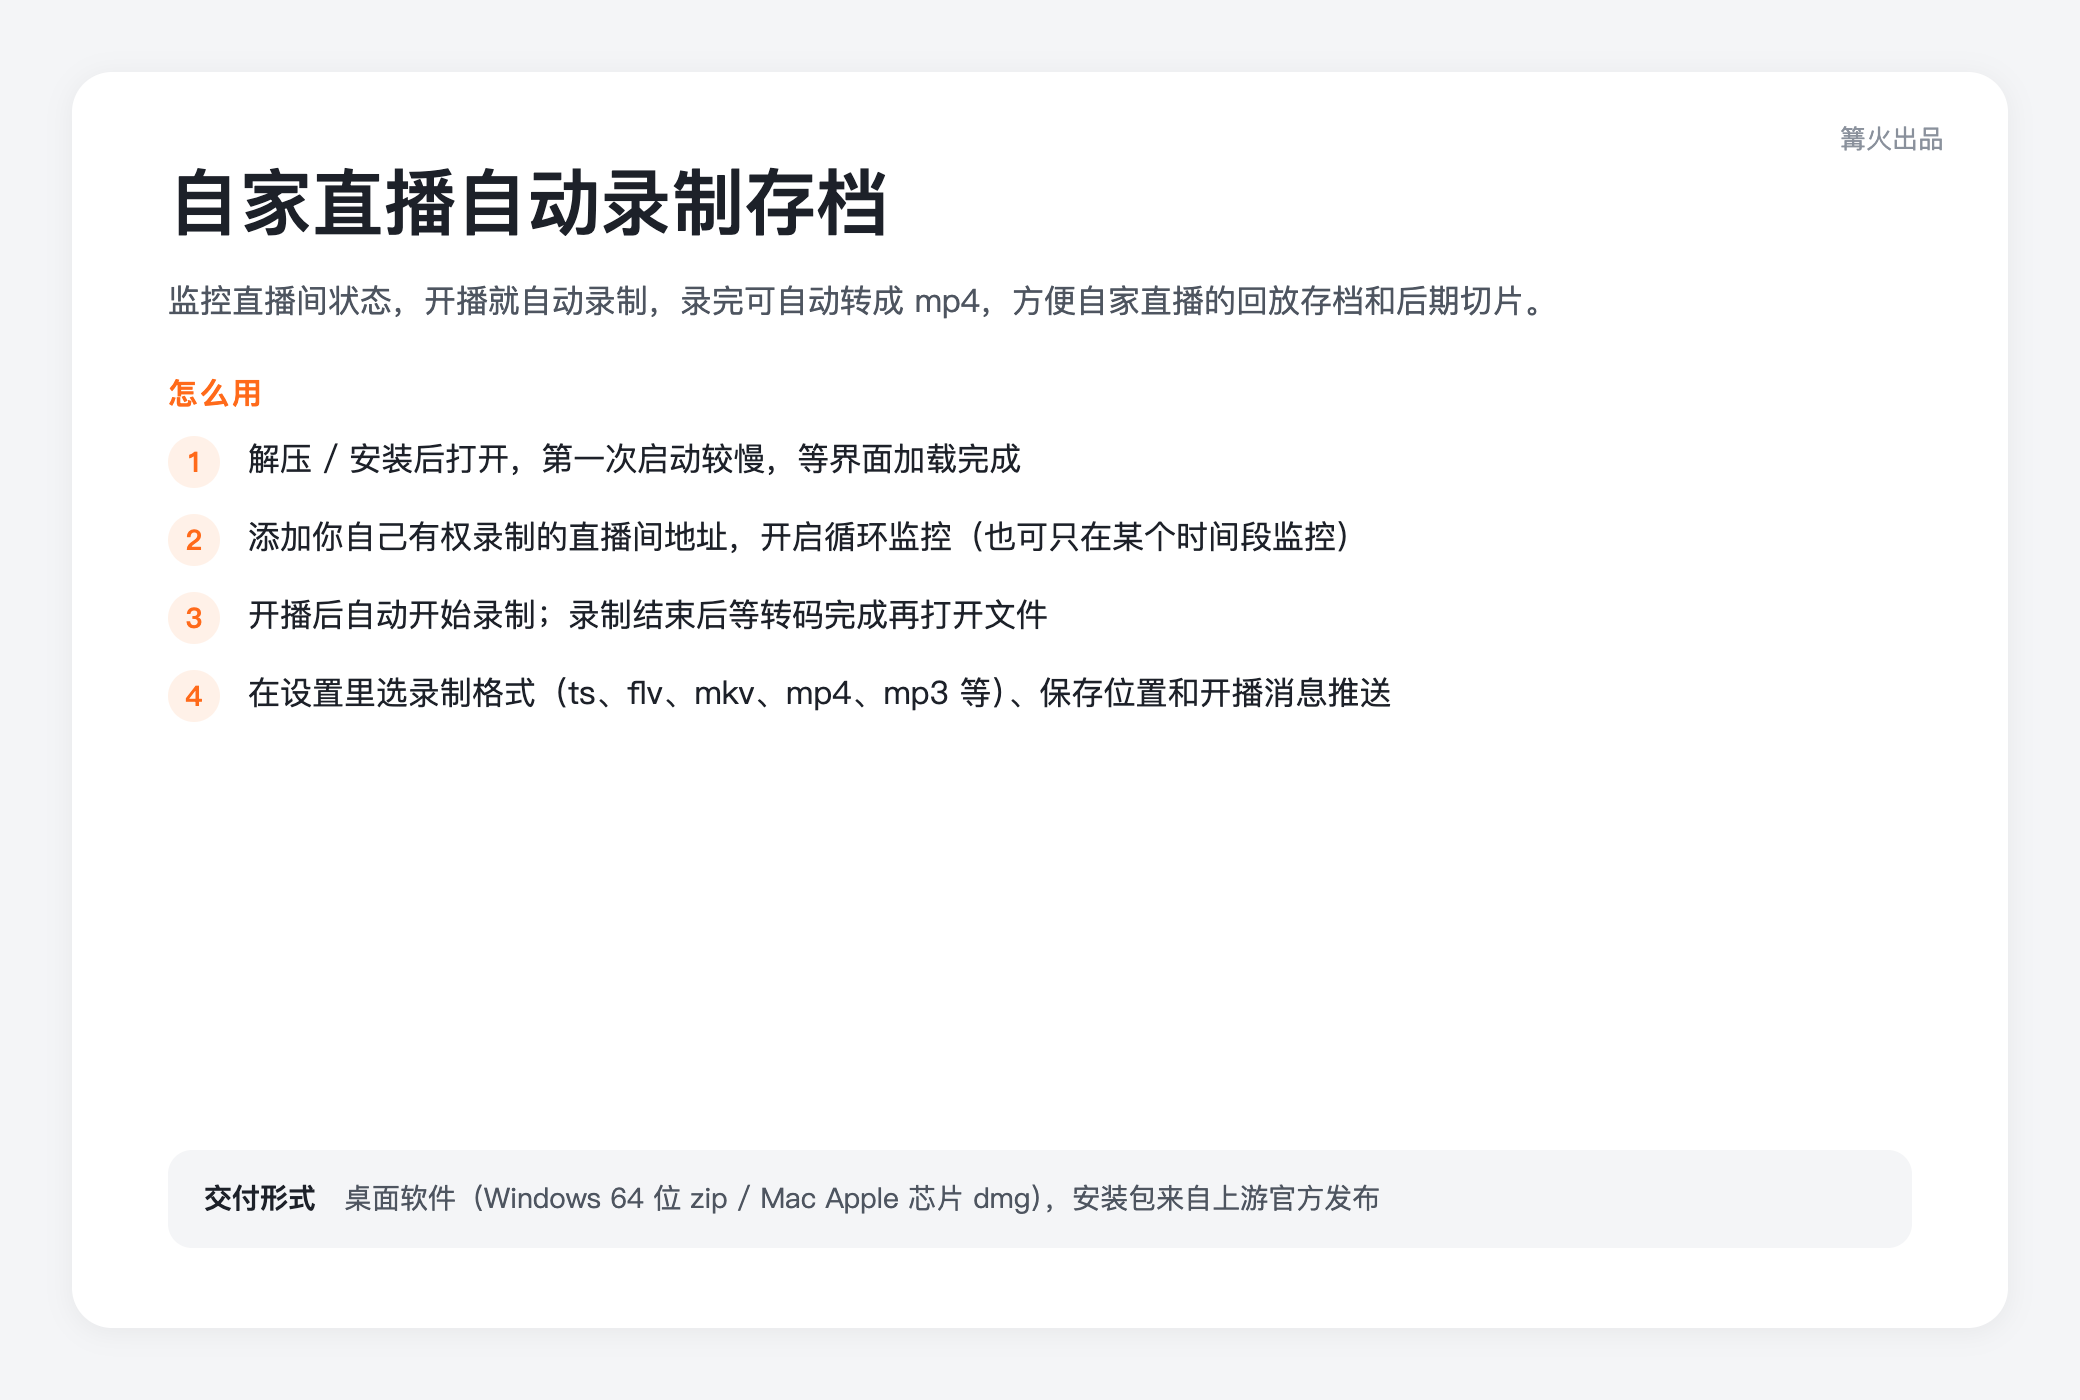
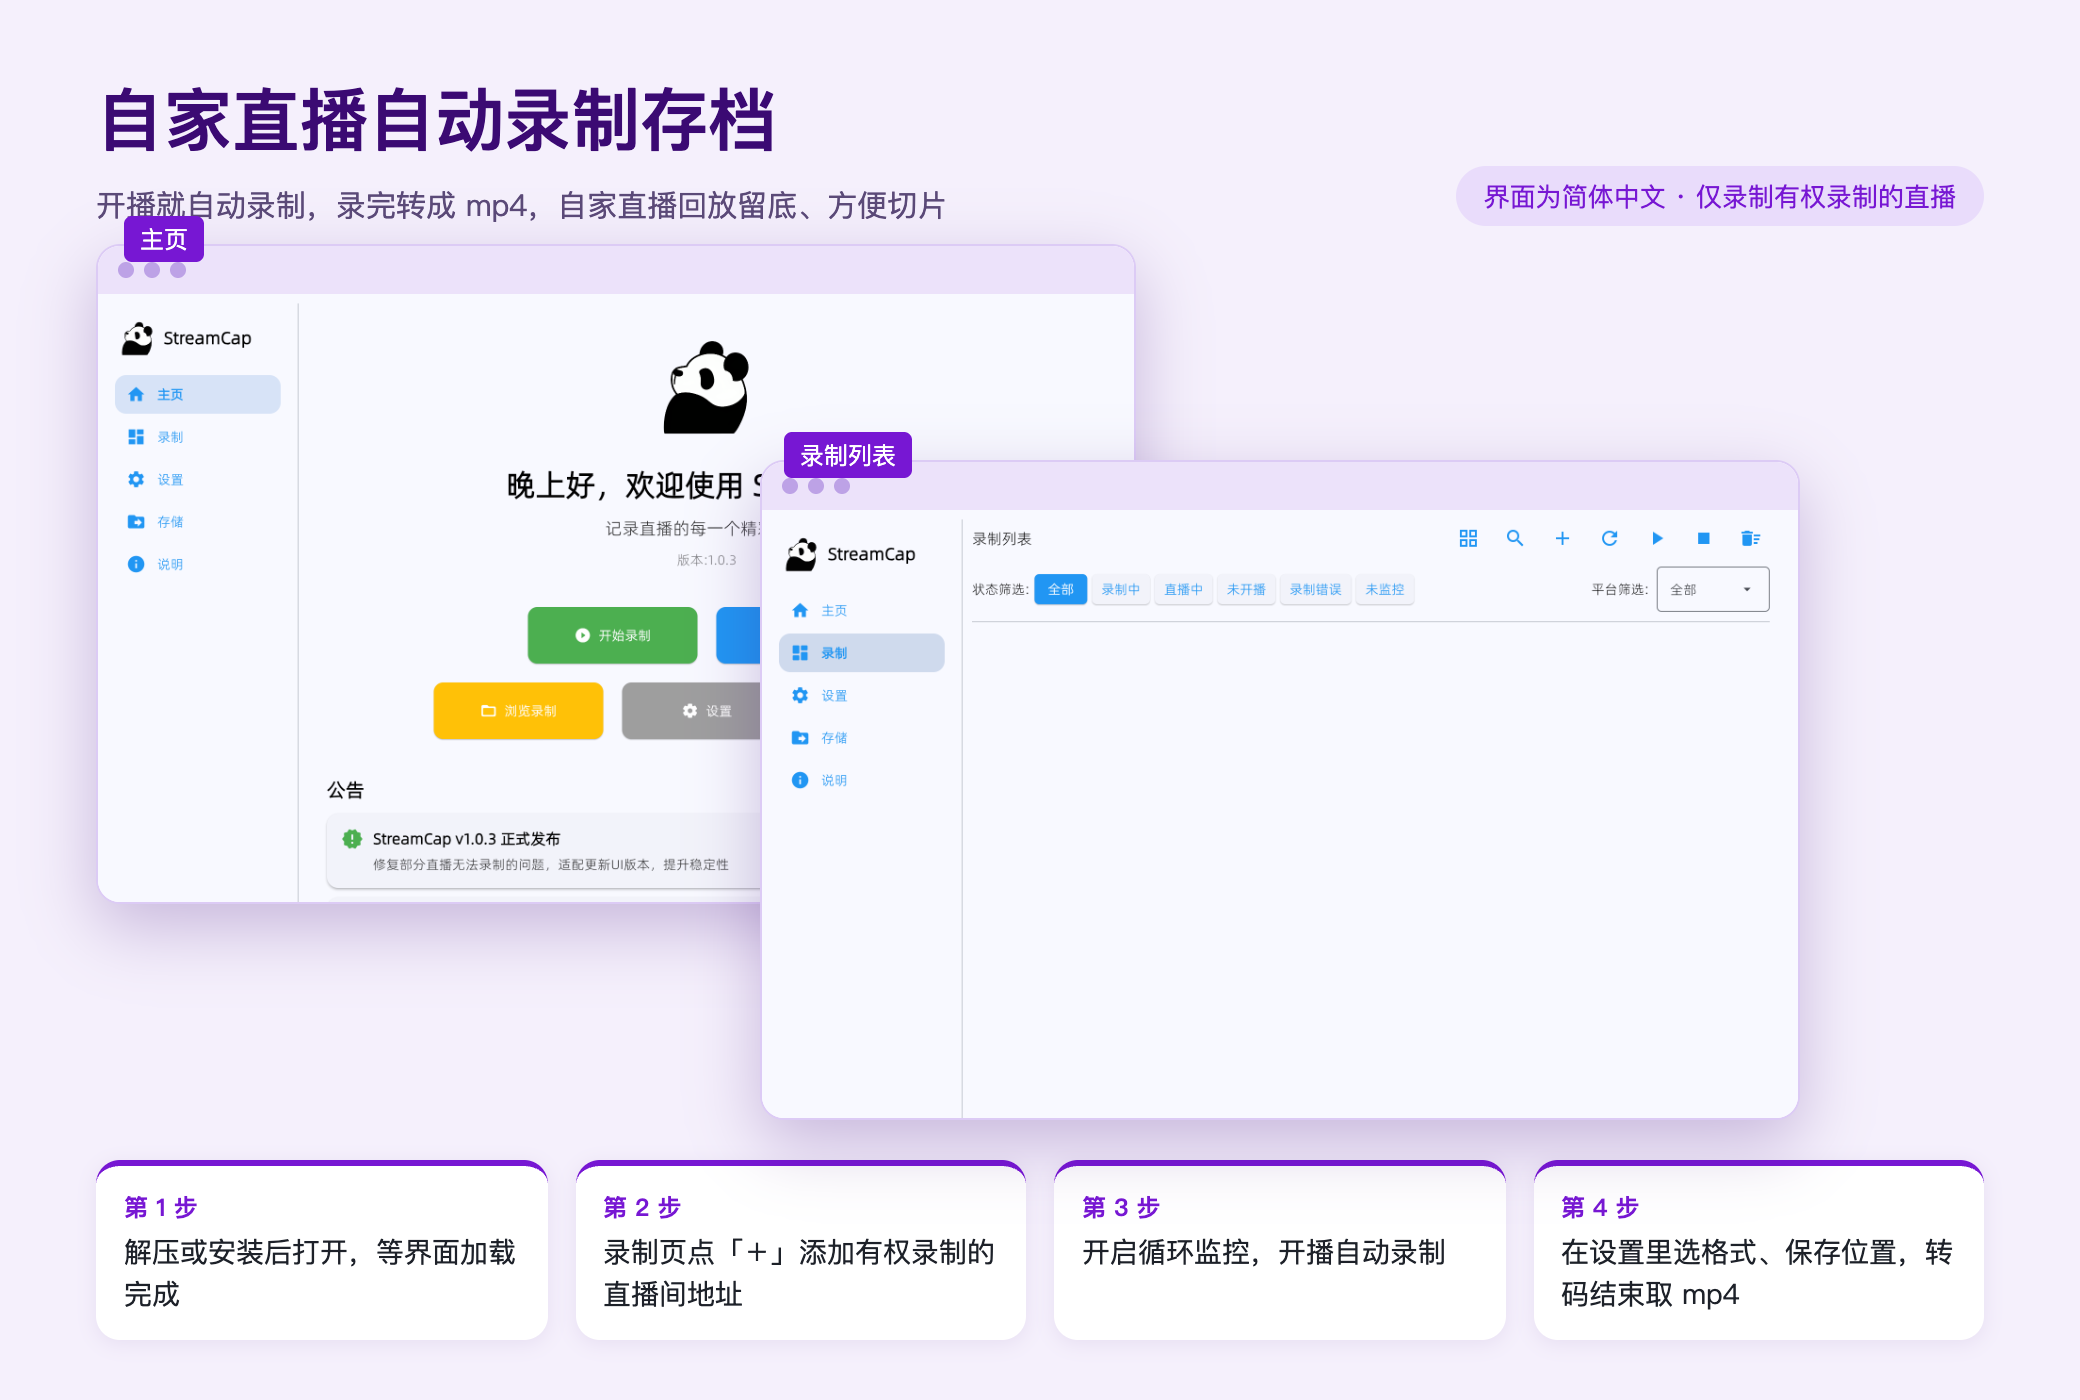
docs: 中文界面真实截图与说明卡，补充切换中文的路径

diff --git a/docs/screenshot.html b/docs/screenshot.html
@@ -1,12 +1,20 @@
 <!doctype html><html lang="zh-CN"><meta charset="utf-8"><title>自家直播自动录制存档</title><style>
-*{box-sizing:border-box}body{margin:0;width:1040px;height:700px;background:#f4f5f7;font-family:-apple-system,"PingFang SC","Helvetica Neue",sans-serif;color:#1d2129;padding:36px}
-.card{background:#fff;border-radius:20px;height:628px;padding:40px 48px;box-shadow:0 2px 14px rgba(0,0,0,.06);position:relative;display:flex;flex-direction:column}
-.brand{position:absolute;right:32px;top:24px;font-size:13px;color:#8a919c}
-h1{margin:0 0 12px;font-size:36px;font-weight:700}
-.desc{font-size:16px;line-height:1.6;color:#4e5560;margin:0 0 22px}
-h2{font-size:15px;color:#ff6a1a;margin:0 0 10px;letter-spacing:1px}
-ol{margin:0;padding:0;list-style:none;counter-reset:n}
-li{counter-increment:n;display:flex;gap:14px;font-size:16px;line-height:1.55;margin-bottom:12px}
-li:before{content:counter(n);flex:none;width:26px;height:26px;border-radius:50%;background:#fff1e8;color:#ff6a1a;font-weight:700;font-size:14px;text-align:center;line-height:26px;margin-top:1px}
-.fmt{margin-top:auto;background:#f4f5f7;border-radius:12px;padding:14px 18px;font-size:14px;line-height:1.5;color:#4e5560}.fmt b{color:#1d2129}
-</style><body><div class="card"><div class="brand">篝火出品</div><h1>自家直播自动录制存档</h1><p class="desc">监控直播间状态，开播就自动录制，录完可自动转成 mp4，方便自家直播的回放存档和后期切片。</p><h2>怎么用</h2><ol><li><span>解压 / 安装后打开，第一次启动较慢，等界面加载完成</span></li><li><span>添加你自己有权录制的直播间地址，开启循环监控（也可只在某个时间段监控）</span></li><li><span>开播后自动开始录制；录制结束后等转码完成再打开文件</span></li><li><span>在设置里选录制格式（ts、flv、mkv、mp4、mp3 等）、保存位置和开播消息推送</span></li></ol><div class="fmt"><b>交付形式　</b>桌面软件（Windows 64 位 zip / Mac Apple 芯片 dmg），安装包来自上游官方发布</div></div></body></html>
+*{box-sizing:border-box}body{margin:0;width:1040px;height:700px;font-family:-apple-system,"PingFang SC","Helvetica Neue",sans-serif;color:#1d2129;background:#f5f0fc;position:relative;overflow:hidden}
+.top{position:absolute;left:48px;top:36px;right:48px;display:flex;justify-content:space-between;align-items:flex-end}
+h1{margin:0;font-size:34px;color:#3b0a73}.sub{font-size:15px;color:#5b4a78;margin-top:8px}
+.tag{font-size:13px;color:#7717D3;background:#e9dcfb;border-radius:20px;padding:6px 14px}
+.w{position:absolute;background:#fff;border-radius:12px;overflow:hidden;box-shadow:0 12px 34px rgba(60,10,120,.25);border:1px solid #dccbf5}
+.w .b{height:24px;background:#ece2fa;display:flex;gap:5px;align-items:center;padding:0 10px}.w .b i{width:8px;height:8px;border-radius:50%;background:#bda2e6}
+.w img{display:block;width:100%}
+.w1{left:48px;top:122px;width:520px;height:330px}.w2{left:380px;top:230px;width:520px;height:330px;z-index:2}
+.lab{position:absolute;font-size:12px;color:#fff;background:#7717D3;border-radius:4px;padding:3px 8px;z-index:3}
+.steps{position:absolute;left:48px;right:48px;bottom:30px;display:flex;gap:14px}
+.s{flex:1;background:#fff;border-radius:12px;padding:12px 14px;font-size:14px;line-height:1.5;border-top:3px solid #7717D3;box-shadow:0 2px 10px rgba(60,10,120,.08)}
+.s b{display:block;color:#7717D3;font-size:12px;margin-bottom:3px}
+.warn{position:absolute;right:48px;top:122px;width:100px}
+</style><body>
+<div class="top"><div><h1>自家直播自动录制存档</h1><div class="sub">开播就自动录制，录完转成 mp4，自家直播回放留底、方便切片</div></div><div class="tag">界面为简体中文 · 仅录制有权录制的直播</div></div>
+<div class="w w1"><div class="b"><i></i><i></i><i></i></div><img src="ui-home-zh.png"></div><div class="lab" style="left:62px;top:108px">主页</div>
+<div class="w w2"><div class="b"><i></i><i></i><i></i></div><img src="ui-list-zh.png"></div><div class="lab" style="left:392px;top:216px">录制列表</div>
+<div class="steps"><div class="s"><b>第 1 步</b>解压或安装后打开，等界面加载完成</div><div class="s"><b>第 2 步</b>录制页点「＋」添加有权录制的直播间地址</div><div class="s"><b>第 3 步</b>开启循环监控，开播自动录制</div><div class="s"><b>第 4 步</b>在设置里选格式、保存位置，转码结束取 mp4</div></div>
+</body></html>

diff --git a/README.md b/README.md
@@ -25,10 +25,11 @@
 1. 解压 / 安装后打开。第一次启动较慢，等界面加载完成。
 2. 添加你自己有权录制的直播间地址，开启循环监控（也可设置只在某个时间段监控）。
 3. 开播后自动开始录制；录制结束后不要马上打开文件，转码需要一点时间。
-4. 在设置里可选录制格式（ts、flv、mkv、mov、mp4、mp3、m4a 等）、保存位置和开播消息推送。
+4. 在设置里可选录制格式（TS、FLV、MKV、MOV、MP4、MP3、M4A 等）、保存位置和开播消息推送。
 
 **说明**
-- 上游源码带有简体中文和英文两套界面语言文件（`locales/`），具体在软件里怎么切换请以实际界面为准。
+- 软件默认就是简体中文（默认设置 `config/default_settings.json` 里 `language` 为 Chinese）。**如果打开后是英文**：左侧点「设置」→「录制设置」→「基础设置」→「程序语言」，选「简体中文」，建议切换后重启程序。语言文件在上游 `locales/zh_CN.json`。
+- 窗口标题栏和左上角的软件名 StreamCap 是上游写死的原文，无法修改。
 - 部分平台需要登录 Cookie 才能录制，具体请看上游 [Wiki](https://github.com/ihmily/StreamCap/wiki/%E4%B8%BB%E9%A1%B5)。
 - Windows 提示不安全时，上游说明可选择仍然运行；Mac 提示无法验证开发者时，到「系统设置 → 隐私与安全性」点「仍要打开」。
 - 视频文件占磁盘很快，请预留足够空间。
